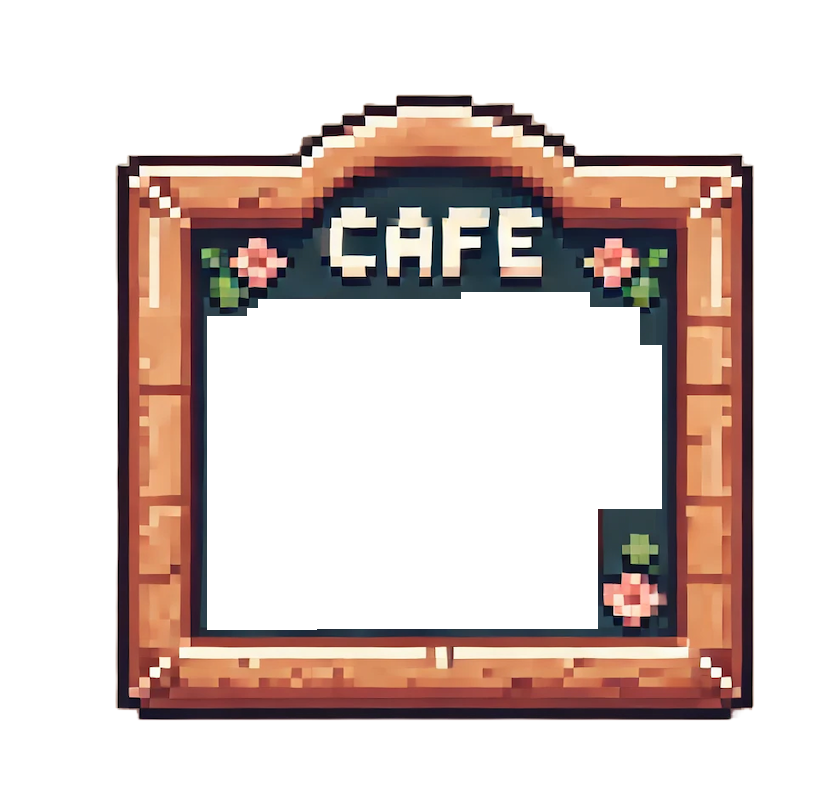
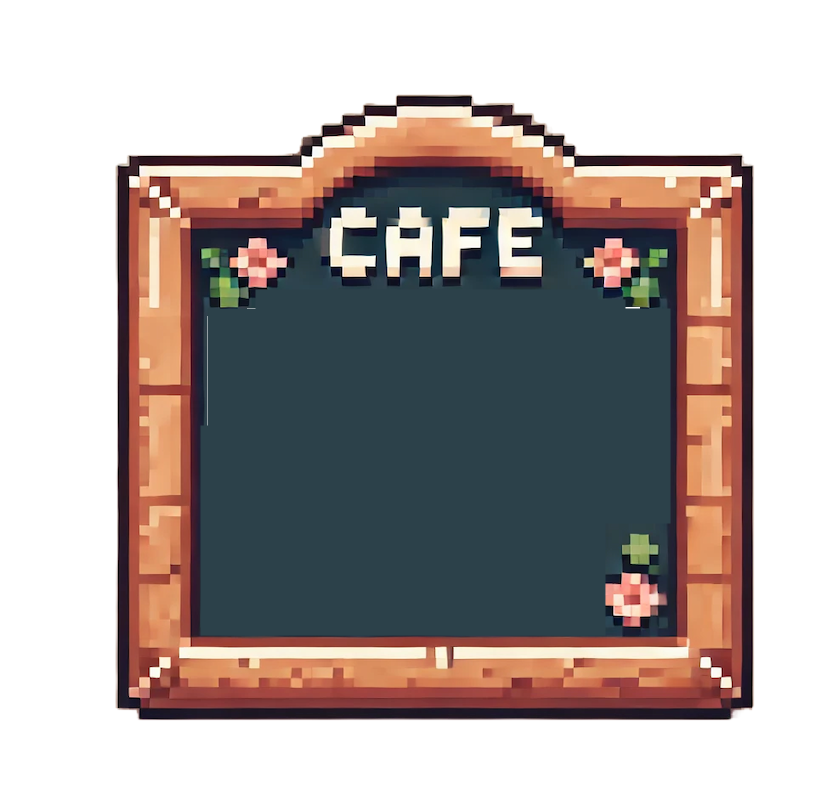
base modal design for tasks

Changed region(s): [[0.2182, 0.3391, 0.8106, 0.8015]]

diff --git a/src/Modal.css b/src/Modal.css
@@ -1,0 +1,126 @@
+@import url('https://fonts.googleapis.com/css?family=Poppins:400,500,600,700,800,900');
+
+*,
+*::before,
+*::after {
+  box-sizing: border-box;
+}
+body{
+  font-family: 'Poppins', sans-serif;
+  font-weight: 400;
+  font-size: 15px;
+  line-height: 1.7;
+  color: #1f2029;
+  background-color: #fff;
+  overflow: hidden;
+  background-image: url('.../assets/coffee_shop_sign.png');
+  background-position: center;
+  background-repeat: no-repeat;
+  background-size: 101%;
+}
+p{
+  font-family: 'Poppins', sans-serif;
+  font-weight: 400;
+  font-size: 16px;
+  line-height: 1.7;
+  color: #1f2029;
+}
+
+.section{
+  position: relative;
+  width: 100%;
+  display: flex;
+  flex-wrap: wrap;
+  justify-content: center;
+}
+.full-height{
+  min-height: 100vh;
+}
+
+/* Modal overlay and content styling */
+.modal{
+  position: fixed;
+  display: flex;
+  flex-wrap: wrap;
+  justify-content: center;
+  margin: 0 auto;
+  top: 0;
+  left: 0;
+  width: 100%;
+  height: 100%;
+  z-index: 100;
+  overflow-x: hidden;
+  background-color: rgba(31,32,41,.75);
+  pointer-events: auto;
+  opacity: 1;
+  transition: all 300ms ease-in-out;
+}
+
+.modal-wrap {
+  position: relative;
+  display: block;
+  width: 100%;
+  max-width: 400px;
+  margin: 20px auto;
+  border-radius: 4px;
+  overflow: hidden;
+  padding-bottom: 20px;
+  background-color: #fff;
+  box-shadow: 0 12px 25px 0 rgba(199,175,189,.25);
+  opacity: 1;
+  transform: scale(1);
+  transition: opacity 250ms ease, transform 300ms ease;
+}
+
+.modal-wrap img {
+  display: block;
+  width: 100%;
+  height: auto;
+}
+
+.modal-wrap p {
+  padding: 20px 30px 0 30px;
+}
+
+/* Logo styling */
+.logo {
+  position: absolute;
+  top: 25px;
+  left: 25px;
+  display: block;
+  z-index: 1000;
+  transition: all 250ms linear;
+}
+.logo img {
+  height: 26px;
+  width: auto;
+  display: block;
+  filter: brightness(10%);
+  transition: filter 250ms linear;
+}
+
+.modal-close-btn {
+  margin: 20px 30px 0 30px;
+  padding: 8px 16px;
+  background-color: #102770;
+  color: #ffeba7;
+  border: none;
+  border-radius: 4px;
+  cursor: pointer;
+  box-shadow: 0 12px 35px 0 rgba(16,39,112,.25);
+  transition: background-color 200ms linear;
+}
+.modal-close-btn:hover {
+  background-color: #ffeba7;
+  color: #102770;
+}
+
+@media screen and (max-width: 500px) {
+  .modal-wrap {
+    width: calc(100% - 40px);
+    padding-bottom: 15px;
+  }
+  .modal-wrap p {
+    padding: 15px 20px 0 20px;
+  }
+}

diff --git a/src/pages/Dashboard.tsx b/src/pages/Dashboard.tsx
@@ -1,10 +1,15 @@
-import React from 'react';
+import React, { useState } from 'react';
 import { useNavigate } from "react-router-dom";
 import backgroundImage from '../assets/background.png';
 import DashboardButton from '../DashboardButton';
+import Modal from '../Modal';
 
-function Dashboard() {
+const Dashboard: React.FC = () => {
   const navigate = useNavigate();
+  const [isModalOpen, setIsModalOpen] = useState<boolean>(false);
+
+  const openModal = (): void => setIsModalOpen(true);
+  const closeModal = (): void => setIsModalOpen(false);
 
   return (
     <div 
@@ -18,6 +23,7 @@ function Dashboard() {
     >
       <div className="absolute top-4 left-4 flex flex-col space-y-20">
         <DashboardButton
+          onClick={openModal}
           className="px-6 py-2 text-white bg-blue-600 font-bold rounded-lg shadow-md hover:bg-blue-700"
           style={{ fontSize: "28px" }}
         >
@@ -30,6 +36,9 @@ function Dashboard() {
           Insights
         </DashboardButton>
       </div>
+      
+      {/* Render the modal if open */}
+      <Modal isOpen={isModalOpen} onClose={closeModal} />
     </div>
   );
 }

diff --git a/src/Modal.tsx b/src/Modal.tsx
@@ -1,0 +1,25 @@
+import React from 'react';
+import './Modal.css';
+import signFrameImage from './assets/cafe_sign_frame.png';
+interface ModalProps {
+  isOpen: boolean;
+  onClose: () => void;
+}
+
+const Modal: React.FC<ModalProps> = ({ isOpen, onClose }) => {
+  if (!isOpen) return null;
+
+  return (
+    <div className="section full-height">
+      <div className="modal" onClick={onClose}>
+        <img 
+          src={signFrameImage} 
+          alt="Popup Frame" 
+          onClick={(e) => e.stopPropagation()}
+        />
+      </div>
+    </div>
+  );
+};
+
+export default Modal;
